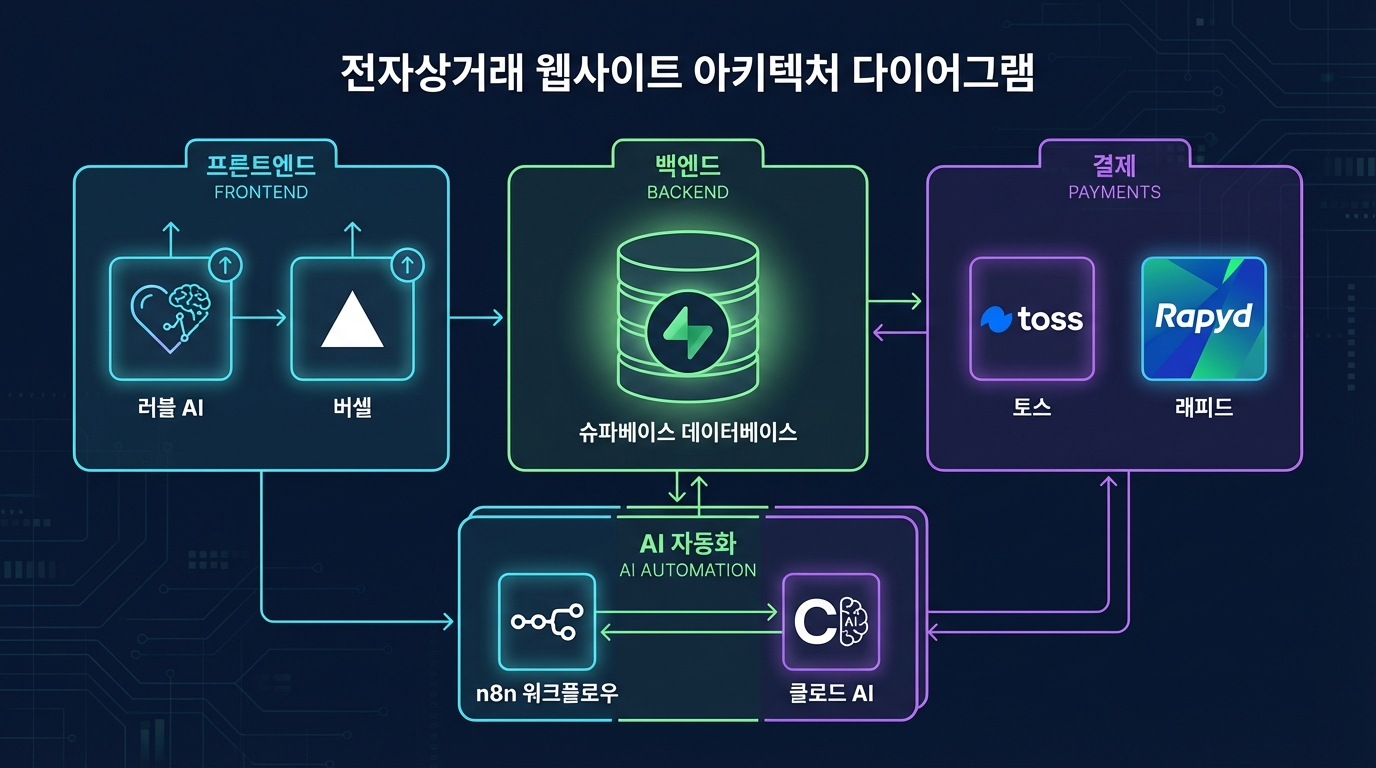
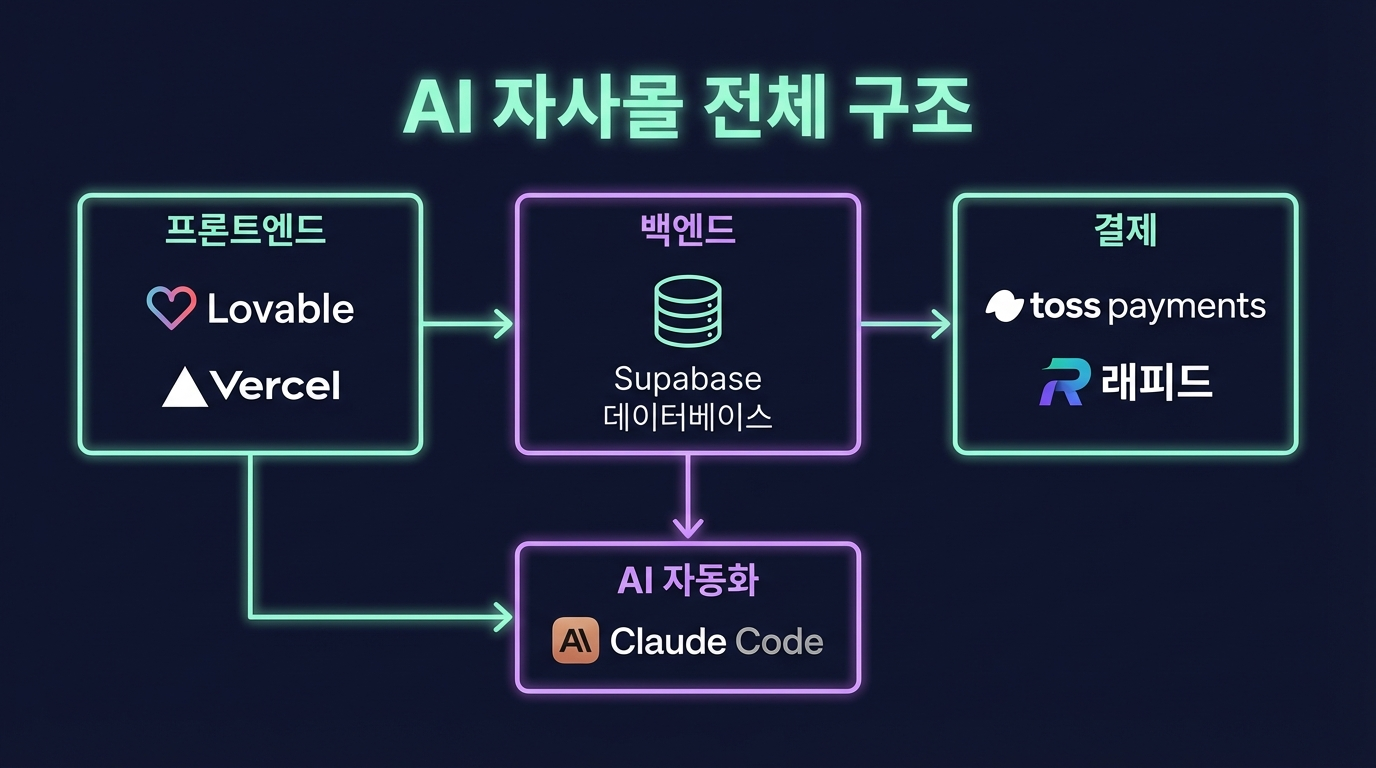
Replace all images with Korean versions, add 5 new section images, remove Rapyd completely

diff --git a/index.html b/index.html
@@ -1,4 +1,4 @@
-<!DOCTYPE html>
+<!DOCTYPE html>
 <html lang="ko">
 <head>
 <meta charset="UTF-8">
@@ -119,6 +119,7 @@ body{font-family:-apple-system,BlinkMacSystemFont,'Segoe UI',sans-serif;backgrou
 </ol>
 <hr>
 <h2 id="1-전체-아키텍처">1. 전체 아키텍처</h2>
+<div style="text-align:center;margin:2rem 0"><img src="images/architecture.png" alt="전체 아키텍처 다이어그램" style="max-width:100%;border-radius:12px;border:1px solid #334155;margin:1.5rem 0"></div>
 <div class="callout callout-abstract"><div class="callout-title">📋 한 줄 요약</div><div>
 <p><strong>Lovable</strong>이 화면을 만들고, <strong>Supabase</strong>가 데이터를 저장하고, <strong>Toss/래피드</strong>가 결제를 처리합니다.</p>
 </div></div>
@@ -226,6 +227,7 @@ body{font-family:-apple-system,BlinkMacSystemFont,'Segoe UI',sans-serif;backgrou
 </tbody></table>
 <hr>
 <h2 id="2-프론트엔드-lovable-vercel">2. 프론트엔드 — Lovable + Vercel</h2>
+<div style="text-align:center;margin:2rem 0"><img src="images/lovable-process.png" alt="Lovable AI 쇼핑몰 생성 과정" style="max-width:100%;border-radius:12px;border:1px solid #334155;margin:1.5rem 0"></div>
 <h3 id="2-1-lovable이란">2-1. Lovable이란?</h3>
 <p>문장(프롬프트)을 입력하면 <strong>AI가 React + TailwindCSS 코드를 자동 생성</strong>해주는 서비스입니다.</p>
 <p>코딩을 전혀 몰라도 프로페셔널한 쇼핑몰 화면을 만들 수 있습니다.</p>
@@ -291,6 +293,7 @@ body{font-family:-apple-system,BlinkMacSystemFont,'Segoe UI',sans-serif;backgrou
 </ol>
 <hr>
 <h2 id="3-백엔드-supabase">3. 백엔드 — Supabase</h2>
+<div style="text-align:center;margin:2rem 0"><img src="images/supabase-structure.png" alt="Supabase 백엔드 구조" style="max-width:100%;border-radius:12px;border:1px solid #334155;margin:1.5rem 0"></div>
 <h3 id="3-1-supabase란">3-1. Supabase란?</h3>
 <p><strong>Firebase의 오픈소스 대안</strong>으로, 데이터베이스 + 인증 + 파일 저장을 한 곳에서 제공합니다.</p>
 <div class="callout callout-tip"><div class="callout-title">💡 왜 Supabase?</div><div>
@@ -389,6 +392,7 @@ CREATE TABLE orders (
 </tbody></table>
 <hr>
 <h2 id="4-결제-연동-toss-래피드">4. 결제 연동 — Toss + 래피드</h2>
+<div style="text-align:center;margin:2rem 0"><img src="images/payment-flow.png" alt="결제 연동 구조" style="max-width:100%;border-radius:12px;border:1px solid #334155;margin:1.5rem 0"></div>
 <h3 id="4-1-결제-분기-구조">4-1. 결제 분기 구조</h3>
 <pre><code class="lang-">
 고객이 &quot;결제하기&quot; 클릭
@@ -462,6 +466,7 @@ CREATE TABLE orders (
 </div></div>
 <hr>
 <h2 id="5-부가-기능-연동">5. 부가 기능 연동</h2>
+<div style="text-align:center;margin:2rem 0"><img src="images/services-grid.png" alt="부가 서비스 한눈에 보기" style="max-width:100%;border-radius:12px;border:1px solid #334155;margin:1.5rem 0"></div>
 <h3 id="5-1-센드맨-전자책파일-자동-발송-cafe24">5-1. 센드맨 — 전자책/파일 자동 발송 (Cafe24)</h3>
 <div class="callout callout-success"><div class="callout-title">✅ 결제 완료 → 파일 자동 발송 → 배송완료 자동 처리</div><div>
 <p>Cafe24 앱 스토어의 파일/링크/코드 판매 자동화 서비스</p>
@@ -560,6 +565,7 @@ CREATE TABLE orders (
 </tbody></table>
 <hr>
 <h2 id="6-ai-운영-자동화">6. AI 운영 자동화</h2>
+<div style="text-align:center;margin:2rem 0"><img src="images/ai-automation.png" alt="AI 운영 자동화 흐름" style="max-width:100%;border-radius:12px;border:1px solid #334155;margin:1.5rem 0"></div>
 <div class="callout callout-abstract"><div class="callout-title">📋 핵심</div><div>
 <p><strong>Claude Code</strong>로 자동화 코드를 직접 구현하고, <strong>Claude API</strong>로 AI 기능을 연동합니다.</p>
 </div></div>
@@ -607,6 +613,7 @@ CREATE TABLE orders (
 </code></pre>
 <hr>
 <h2 id="7-구축-로드맵-2주">7. 구축 로드맵 (2주)</h2>
+<div style="text-align:center;margin:2rem 0"><img src="images/roadmap.png" alt="2주 구축 로드맵" style="max-width:100%;border-radius:12px;border:1px solid #334155;margin:1.5rem 0"></div>
 <div class="callout callout-tip"><div class="callout-title">💡 하루 2~3시간씩 진행 기준</div><div>
 </div></div>
 <table><thead><tr>
@@ -702,6 +709,7 @@ CREATE TABLE orders (
 </tbody></table>
 <hr>
 <h2 id="8-월-비용-정리">8. 월 비용 정리</h2>
+<div style="text-align:center;margin:2rem 0"><img src="images/cost-compare.png" alt="월 비용 비교" style="max-width:100%;border-radius:12px;border:1px solid #334155;margin:1.5rem 0"></div>
 <h3 id="시작-단계-월-주문-100건-이하">시작 단계 (월 주문 100건 이하)</h3>
 <table><thead><tr>
 <th>서비스</th>
@@ -929,3 +937,4 @@ links.forEach(l=>l.addEventListener('click',()=>document.querySelector('.sidebar
 </script>
 </body>
 </html>
+
